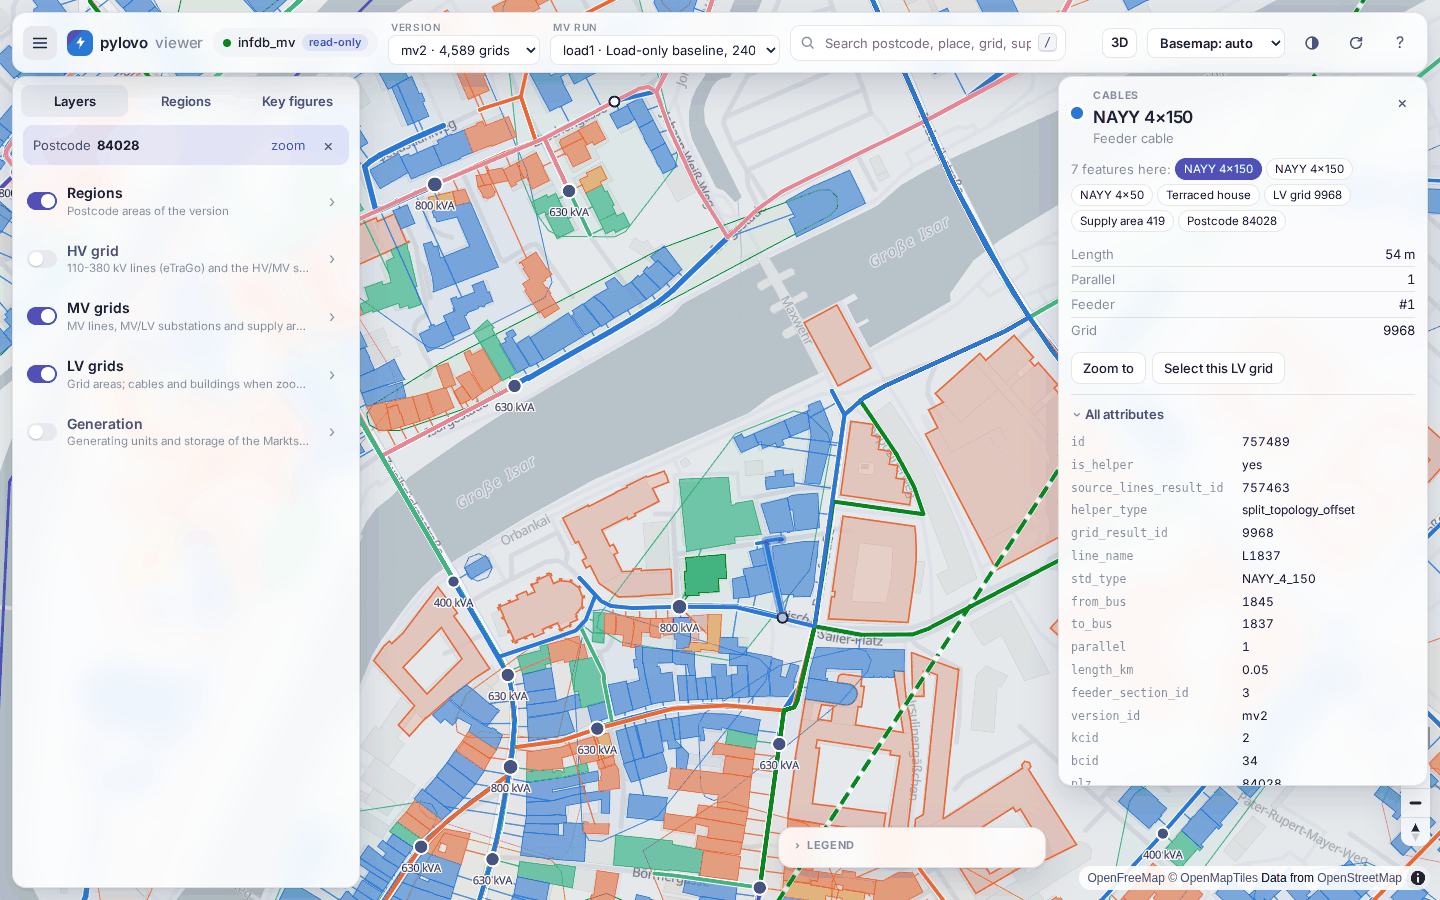
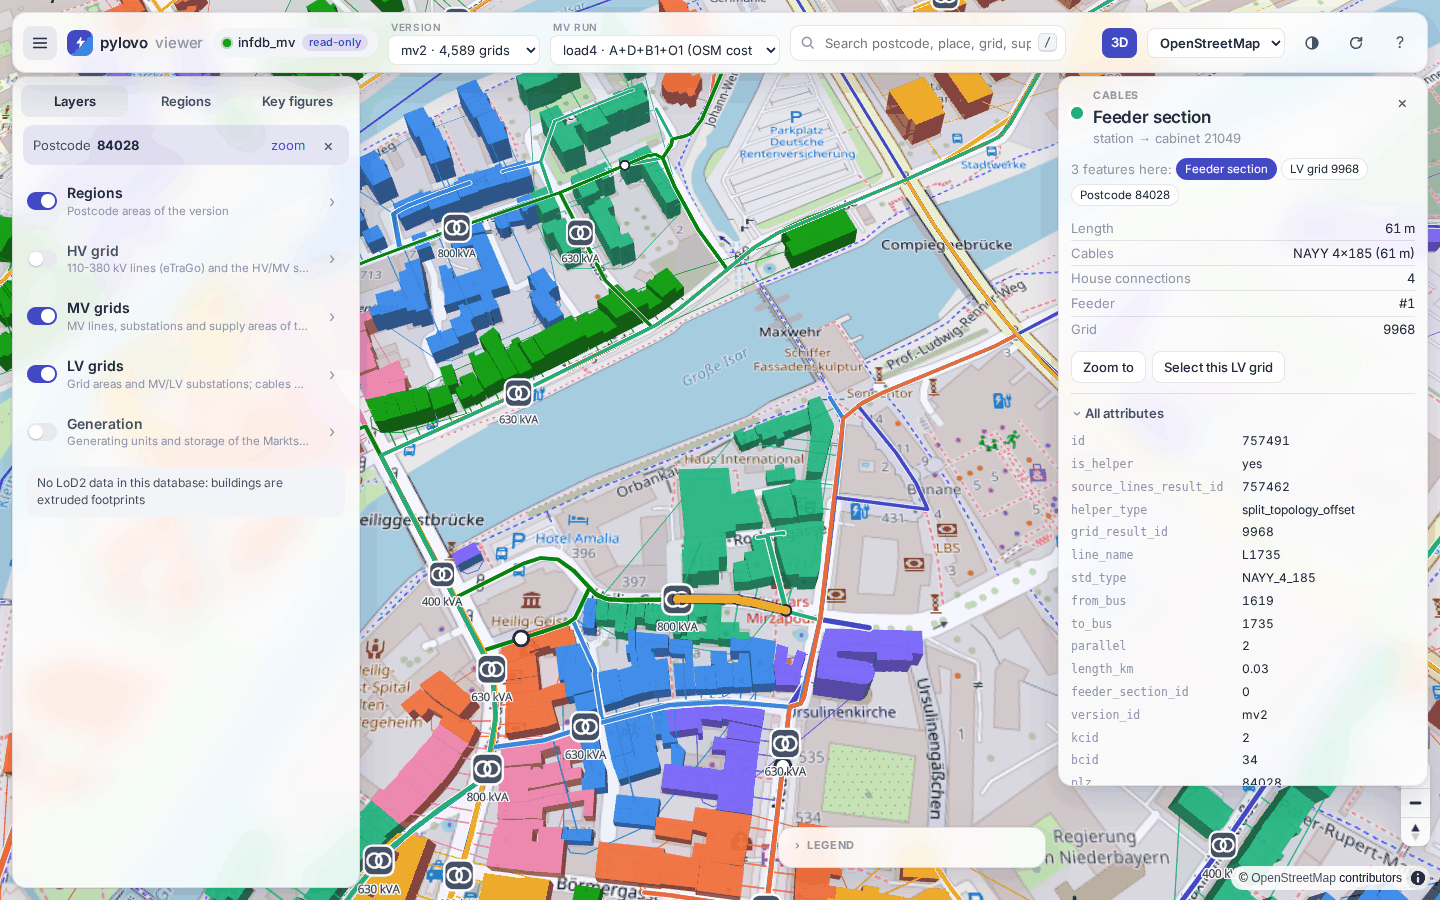
Document the viewer's symbols, selections and defaults

diff --git a/docs/source/user_guide/viewer.rst b/docs/source/user_guide/viewer.rst
@@ -8,12 +8,13 @@ reads: every query runs in a read-only transaction, and the viewer never creates
 anything. For setup, generation and editing use GridPlanner (:doc:`browser_ui`).
 
 .. figure:: /images/viewer/viewer-detail.png
-   :alt: The map viewer with LV cables and buildings coloured by feeder and the attributes of one cable
+   :alt: The map viewer with LV grids coloured by grid and one selected feeder section
    :width: 100%
 
-   LV grids of one postcode, cables and buildings coloured by feeder, with the inspector showing
-   one cable and its database row. MV test region from open data; map data © OpenStreetMap
-   contributors (ODbL), basemap OpenFreeMap / OpenMapTiles.
+   LV grids of one postcode in the default view: areas, cables and buildings coloured by grid and
+   the MV/LV substations as transformer symbols. A click on a cable selects its feeder section
+   (yellow), and the inspector shows the section and the cable's database row. MV test region from open data; map data © OpenStreetMap contributors
+   (ODbL).
 
 Start
 -----
@@ -66,15 +67,24 @@ search: postcode, place name, municipality key (AGS), grid id, supply area or su
 building ``objectid`` all work. The map flies to the region and marks it, and the *Key figures* tab
 shows its numbers.
 
-**Identify.** Hover over a feature for a short tooltip. Click it for the inspector: its key facts,
+**Identify.** Hover over a feature for a short tooltip. Click it for the inspector (a clicked line
+turns bright yellow): its key facts,
 actions (*Zoom to*, *Show this LV grid*, *Show supply area*) and *All attributes*, the full database
-row as in QGIS' identify tool. When several features overlap, the inspector lists them all.
+row as in QGIS' identify tool. When several features overlap, the inspector lists them all. A click
+on an LV feeder cable selects its whole feeder section, from the station or a cable cabinet to the
+next cabinet or the end of the feeder, with its length, cable types and house connections. Clicking
+section by section follows the feeder through the grid. A click on an MV line selects its whole ring
+with the stubs, marks the normally-open point on it and adds the ring's length, overhead length,
+stations and highest (n-1) loading to the facts.
 
 **Colours and legend.** Layers with several colour modes have a small menu next to their name
-(for example cables by type, feeder, grid or feeder/service). The legend shows the categories of
-the loaded data with their counts.
+(for example cables by grid, feeder, type or feeder/service). By default the LV grid areas, cables
+and buildings are coloured by grid. The legend shows the categories of the loaded data with their
+counts. Colours that only tell grids, rings or supply areas apart have no legend entry.
 
-**3D.** The *3D* button tilts the map and extrudes the buildings by their height. With a
+**3D.** The map starts in 3D, tilted by 25°, on the OpenStreetMap basemap (another basemap is kept
+in the address bar, not between visits). The *3D* button switches
+to the flat map and back; buildings are extruded by their height in 3D. With a
 ``citydb`` schema (3DCityDB v5, see :doc:`input_data`) the buildings in view are drawn as their LoD2
 models with roofs and walls from zoom 15 (up to 5,000 buildings).
 
@@ -92,9 +102,11 @@ basemap and camera, so a view can be bookmarked or sent. Keys: ``/`` search, ``3
 Layers
 ------
 
-Every substation belongs to the level of its higher voltage: the HV/MV substations to the HV grid,
-the MV/LV substations to the MV grids. A layer whose tables are missing or empty in the database is
-greyed out with the reason, so one viewer works with any pylovo database.
+Every substation belongs to both of its levels: the HV/MV substations to the HV and the MV grids,
+the MV/LV substations to the MV and the LV grids. It is one layer listed in both, so it looks the
+same whichever level shows it. Substations are drawn as transformer symbols, the HV/MV ones larger
+and framed. A layer whose tables are missing or empty in the database is greyed out with the
+reason, so one viewer works with any pylovo database.
 
 .. list-table::
    :header-rows: 1
@@ -110,7 +122,7 @@ greyed out with the reason, so one viewer works with any pylovo database.
    * - HV grid
      - HV and EHV lines
      - The 110, 220 and 380 kV grid of Germany from eGon-data (see below).
-   * -
+   * - HV and MV grids
      - HV/MV substations
      - ``pylovo.mv_substation`` of the MV run with their site outlines; candidates the run did not use
        are hollow. The facts give the eTraGo 110 kV bus of each substation.
@@ -118,16 +130,16 @@ greyed out with the reason, so one viewer works with any pylovo database.
      - MV lines
      - ``pylovo.mv_line``: rings, stubs and dedicated feeders by ring, kind, role or loading, with the
        normally-open points; overhead lines dashed, ties between supply areas dotted. Mixed lines run
-       partly on an OSM MV line, and their facts give the cable and overhead length.
+       partly on an OSM MV line: that part is dashed, and their facts give the cable and overhead
+       length.
    * -
      - OSM MV lines (off by default)
      - The MV overhead lines mapped in OpenStreetMap as corridors of the run's routing graph
        (``pylovo.mv_graph_edge``, ``MV_OVERHEAD_LINES: osm``).
-   * -
+   * - MV and LV grids
      - MV/LV substations
      - ``pylovo.grid_result`` and ``transformer_positions``, with the MV ring and voltage of the
-       station from ``pylovo.mv_node`` when an MV run is selected. Converged stations are neutral, so
-       LV grids with voltage violations stand out.
+       station from ``pylovo.mv_node`` when an MV run is selected. Shown from zoom 10.2.
    * -
      - Supply areas, MV customers
      - ``pylovo.mv_grid`` (areas cut by the region border have a dashed outline) and
@@ -139,7 +151,8 @@ greyed out with the reason, so one viewer works with any pylovo database.
      - Cables, Buildings
      - ``pylovo.lines_result_cache`` with the cable cabinets of ``pylovo.split_points``, and
        ``pylovo.buildings_result``, for the map view from zoom 13. Feeders are numbered from the
-       station along the cables, 1 being the longest.
+       station along the cables, 1 being the longest. From zoom 15 an arrow at each cabinet marks
+       the cable that supplies it.
    * - Generation
      - MaStR units
      - ``pylovo.mastr_units`` (``pylovo-import mastr``) by technology or grid level.
@@ -178,6 +191,7 @@ Data and limits
   most 60,000 features per request and says so when it is cut.
 * The server keeps loaded data in memory. After a new generation or MV run, the reload button in
   the top bar reads everything from the database again.
-* The browser loads MapLibre GL JS, Vue, the fonts and the basemaps (OpenFreeMap, OpenStreetMap)
-  from the internet. The data layers also work without a basemap (*Basemap: No basemap*).
+* The browser loads MapLibre GL JS, Vue, the fonts and the basemaps (OpenStreetMap by default,
+  OpenFreeMap) from the internet. The data layers also work without a basemap (*Basemap: No
+  basemap*).
 * LoD2 models need WebGL2; without it the buildings stay extruded footprints.
